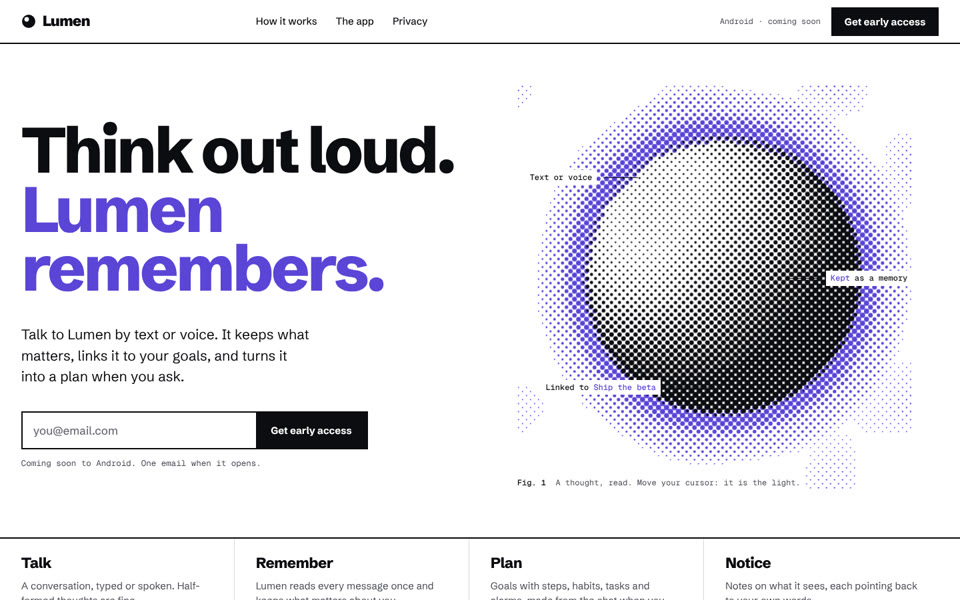
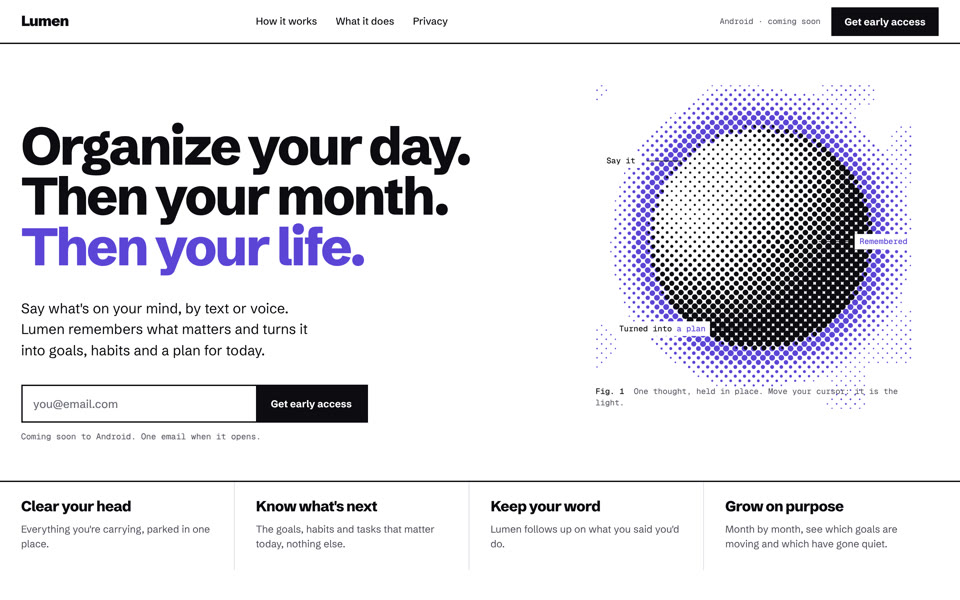
Concept A: marketing copy, abstract feature plates, one-colour goal rings
Headline and sections rewritten around organizing your day, month and life
and parking open loops. The recreated app screens are replaced by animated
halftone plates in phone frames; Today's rings follow the app (one colour on
a faint track). Logo mark removed until a brand icon exists.

Claude-Session: https://claude.ai/code/session_016rhTXZgh22ZUgroZqoWp4m

diff --git a/concepts/a-specimen.html b/concepts/a-specimen.html
@@ -8,7 +8,6 @@
 <link rel="preconnect" href="https://fonts.googleapis.com">
 <link rel="preconnect" href="https://fonts.gstatic.com" crossorigin>
 <link href="https://fonts.googleapis.com/css2?family=Schibsted+Grotesk:wght@400;500;700;800;900&family=Geist+Mono:wght@400;500&family=Inter:wght@400;500;600;700&display=swap" rel="stylesheet">
-<link rel="stylesheet" href="shared/phones.css">
 <style>
 :root {
   --paper: #ffffff;
@@ -69,17 +68,18 @@ html { scrollbar-color: var(--ink) var(--paper); }
 
 /* Hero */
 .hero { padding-block: clamp(40px, 6vw, 96px) 0; }
-.hero__text { grid-column: 1 / 7; align-self: start; padding-top: clamp(0px, 2vw, 32px); }
+.hero__text { grid-column: 1 / 8; align-self: start; padding-top: clamp(0px, 2vw, 32px); }
 .hero h1 {
   font-weight: 800;
-  font-size: clamp(52px, 7.4vw, 6rem);
-  line-height: 0.92;
+  font-size: clamp(44px, 5.5vw, 5.4rem);
+  line-height: 0.95;
   letter-spacing: -0.045em;
   margin: 0 0 clamp(24px, 3vw, 40px);
   text-wrap: balance;
 }
-.hero h1 span { display: block; animation: rise 1.1s var(--ease) both; }
-.hero h1 span:nth-child(2) { animation-delay: 0.08s; color: var(--violet); }
+.hero h1 span { display: block; white-space: nowrap; animation: rise 1.1s var(--ease) both; }
+.hero h1 span:nth-child(2) { animation-delay: 0.08s; }
+.hero h1 span:nth-child(3) { animation-delay: 0.16s; color: var(--violet); }
 @keyframes rise { from { transform: translateY(0.35em); opacity: 0; filter: blur(6px); } }
 .lede { font-size: clamp(18px, 1.5vw, 21px); line-height: 1.5; max-width: 34ch; margin: 0 0 36px; color: var(--ink); }
 
@@ -103,7 +103,7 @@ html { scrollbar-color: var(--ink) var(--paper); }
 .signup__note[data-kind='ok'] { color: var(--violet); }
 .signup[data-state='error'] .signup__row { border-color: #b4232a; }
 
-.hero__fig { grid-column: 7 / 13; position: relative; aspect-ratio: 1 / 1.02; margin-top: -24px; }
+.hero__fig { grid-column: 8 / 13; position: relative; aspect-ratio: 1 / 1.02; margin-top: -24px; }
 .hero__fig canvas { position: absolute; inset: 0; width: 100%; height: 100%; display: block; }
 .anno { position: absolute; font: 500 12px/1.35 var(--mono); color: var(--ink); display: flex; align-items: center; gap: 10px; white-space: nowrap; pointer-events: none; }
 .anno span { background: var(--paper); padding: 3px 7px; }
@@ -147,34 +147,44 @@ html { scrollbar-color: var(--ink) var(--paper); }
 .step p { margin: 0; font-size: 18px; max-width: 32ch; color: var(--ink-2); transition: color 0.4s var(--ease); }
 .step.on p { color: var(--ink); }
 
-/* Screens */
+/* Feature plates: a phone-shaped window onto one animated idea, cut by the rule */
 .screens { border-top: 2px solid var(--rule); padding-top: 28px; }
 .screens .h2 { grid-column: 1 / 10; }
 .screens__intro { grid-column: 10 / 13; align-self: end; margin: 0; color: var(--ink-2); font-size: 15px; }
 .shots { margin-top: clamp(40px, 5vw, 72px); align-items: end; }
 .shot { grid-column: span 3; }
-.shot .phone-crop { --crop-h: 33em; justify-content: center; border-bottom: 2px solid var(--rule); position: relative; }
-.shot .phone { --s: 0.98; }
-.shot:nth-child(1) .phone-crop { --crop-h: 40em; }
-.shot:nth-child(2) .phone-crop { --crop-h: 34em; }
-.shot:nth-child(3) .phone-crop { --crop-h: 44em; }
-.shot:nth-child(4) .phone-crop { --crop-h: 30em; }
-.shot .phone-crop::before {
+.cut { position: relative; border-bottom: 2px solid var(--rule); display: flex; justify-content: center; }
+.cut::before {
   content: '';
   position: absolute;
-  inset: 22% -8% 0;
+  inset: 30% -6% 0;
   background-image: radial-gradient(var(--violet) 1.1px, transparent 1.3px);
   background-size: 7px 7px;
   -webkit-mask-image: linear-gradient(to top, #000 0%, transparent 85%);
   mask-image: linear-gradient(to top, #000 0%, transparent 85%);
-  opacity: 0.55;
+  opacity: 0.5;
 }
-.shot .phone { transition: transform 1.2s var(--ease); }
-.js .shot:not(.in) .phone { transform: translateY(14%); }
-.shot > h3 { font-size: 22px; font-weight: 800; letter-spacing: -0.03em; margin: 18px 0 6px; }
-.shot > h3 small { font: 500 12px/1 var(--mono); color: var(--violet); letter-spacing: 0; display: block; margin-bottom: 10px; }
+.dev {
+  position: relative;
+  width: min(100%, 290px);
+  height: var(--h, 380px);
+  background: #121316;
+  border: 8px solid #0a0a0c;
+  border-bottom: 0;
+  border-radius: 42px 42px 0 0;
+  overflow: hidden;
+  transition: transform 1.2s var(--ease);
+}
+.shot:nth-child(1) .dev { --h: 400px; }
+.shot:nth-child(2) .dev { --h: 340px; }
+.shot:nth-child(3) .dev { --h: 440px; }
+.shot:nth-child(4) .dev { --h: 310px; }
+.js .shot:not(.in) .dev { transform: translateY(14%); }
+.dev canvas { position: absolute; left: 0; right: 0; top: 52px; bottom: 0; width: 100%; height: calc(100% - 52px); }
+.dev .bar { position: absolute; top: 18px; left: 22px; right: 22px; display: flex; justify-content: space-between; align-items: center; font: 500 11px/1 var(--mono); color: #a0a1aa; letter-spacing: 0.02em; }
+.dev .bar i { width: 44px; height: 6px; border-radius: 3px; background: #2c2d33; }
+.shot > h3 { font-size: 24px; font-weight: 800; letter-spacing: -0.035em; line-height: 1.05; margin: 20px 0 8px; }
 .shot > p { margin: 0; color: var(--ink-2); font-size: 15px; max-width: 30ch; }
-.sample { font: 400 12px/1.4 var(--mono); color: var(--ink-2); margin-top: 28px; }
 
 /* Privacy */
 .priv { border-top: 2px solid var(--rule); margin-top: clamp(80px, 10vw, 140px); padding-top: 28px; }
@@ -224,7 +234,7 @@ footer a:hover { color: #b9adff; }
   .screens__intro { grid-column: 1 / -1; margin-top: 16px; }
   .shots { display: flex; overflow-x: auto; scroll-snap-type: x mandatory; gap: var(--g); margin-left: calc(var(--g) * -1); margin-right: calc(var(--g) * -1); padding: 0 var(--g) 8px; scrollbar-width: none; }
   .shot { flex: 0 0 78%; scroll-snap-align: center; }
-  .shot .phone { --s: 0.9; }
+  .dev { --h: 360px !important; }
   .priv ul, .priv__links { grid-column: 1 / -1; margin-top: 24px; }
   .close h2, .close .signup { grid-column: 1 / -1; }
   .close canvas { width: 100%; opacity: 0.45; }
@@ -232,6 +242,8 @@ footer a:hover { color: #b9adff; }
   footer nav { margin-top: 10px; }
 }
 @media (max-width: 520px) {
+  .hero h1 { font-size: clamp(36px, 10.4vw, 52px); }
+  .hero h1 span { white-space: normal; }
   .facts .grid > div { grid-column: 1 / -1; }
   .signup .btn { padding: 0 14px; font-size: 14px; }
 }
@@ -243,10 +255,9 @@ footer a:hover { color: #b9adff; }
 <header class="mast">
   <div class="wrap grid">
     <a class="logo" href="#top" aria-label="Lumen home">
-      <svg viewBox="0 0 22 22" aria-hidden="true"><circle cx="11" cy="11" r="10" fill="#0c0c10"/><circle cx="8" cy="8" r="3.4" fill="#fff"/></svg>
-      Lumen
+Lumen
     </a>
-    <nav aria-label="Sections"><a href="#how">How it works</a><a href="#screens">The app</a><a href="#privacy">Privacy</a></nav>
+    <nav aria-label="Sections"><a href="#how">How it works</a><a href="#screens">What it does</a><a href="#privacy">Privacy</a></nav>
     <div class="mast__cta"><span>Android · coming soon</span><a class="btn" href="#join">Get early access</a></div>
   </div>
 </header>
@@ -255,8 +266,8 @@ footer a:hover { color: #b9adff; }
   <section class="hero wrap">
     <div class="grid">
       <div class="hero__text">
-        <h1><span>Think out loud.</span><span>Lumen remembers.</span></h1>
-        <p class="lede">Talk to Lumen by text or voice. It keeps what matters, links it to your goals, and turns it into a plan when you ask.</p>
+        <h1><span>Organize your day.</span><span>Then your month.</span><span>Then your life.</span></h1>
+        <p class="lede">Say what's on your mind, by text or voice. Lumen remembers what matters and turns it into goals, habits and a plan for today.</p>
         <form class="signup" data-endpoint="" novalidate>
           <label class="signup__row">
             <span class="visually-hidden" style="position:absolute;clip:rect(0 0 0 0);width:1px;height:1px;overflow:hidden">Email address</span>
@@ -268,66 +279,66 @@ footer a:hover { color: #b9adff; }
       </div>
       <figure class="hero__fig" id="heroFig" aria-hidden="true">
         <canvas id="heroCanvas"></canvas>
-        <div class="anno anno--l" style="left:2%;top:21%;--len:52px"><span>Text or voice</span></div>
-        <div class="anno" style="right:0;top:46%;--len:44px;--o:-1"><span><b>Kept</b> as a memory</span></div>
-        <div class="anno anno--l" style="left:6%;top:73%;--len:72px"><span>Linked to <b>Ship the beta</b></span></div>
-        <figcaption class="figcap"><b>Fig. 1</b>&nbsp;&nbsp;A thought, read. Move your cursor: it is the light.</figcaption>
+        <div class="anno anno--l" style="left:2%;top:21%;--len:52px"><span>Say it</span></div>
+        <div class="anno" style="right:0;top:46%;--len:44px;--o:-1"><span><b>Remembered</b></span></div>
+        <div class="anno anno--l" style="left:6%;top:73%;--len:72px"><span>Turned into <b>a plan</b></span></div>
+        <figcaption class="figcap"><b>Fig. 1</b>&nbsp;&nbsp;One thought, held in place. Move your cursor: it is the light.</figcaption>
       </figure>
     </div>
   </section>
 
   <section class="facts wrap" aria-label="What Lumen does">
     <div class="grid">
-      <div><h3>Talk</h3><p>A conversation, typed or spoken. Half-formed thoughts are fine.</p></div>
-      <div><h3>Remember</h3><p>Lumen reads every message once and keeps what matters about you.</p></div>
-      <div><h3>Plan</h3><p>Goals with steps, habits, tasks and alarms, made from the chat when you ask.</p></div>
-      <div><h3>Notice</h3><p>Notes on what it sees, each pointing back to your own words.</p></div>
+      <div><h3>Clear your head</h3><p>Everything you're carrying, parked in one place.</p></div>
+      <div><h3>Know what's next</h3><p>The goals, habits and tasks that matter today, nothing else.</p></div>
+      <div><h3>Keep your word</h3><p>Lumen follows up on what you said you'd do.</p></div>
+      <div><h3>Grow on purpose</h3><p>Month by month, see which goals are moving and which have gone quiet.</p></div>
     </div>
   </section>
 
   <section class="how wrap" id="how">
-    <div class="how__head grid"><h2>From a passing thought to a plan you keep.</h2></div>
+    <div class="how__head grid"><h2>Get it out of your head. Get it done.</h2></div>
     <div class="how__body grid">
       <div class="how__stage">
         <div class="frame">
           <canvas id="howCanvas" aria-hidden="true"></canvas>
           <div class="tag"><b>Fig. 2</b>&nbsp;&nbsp;<span id="howTag">A thought</span></div>
-          <div class="meter" aria-hidden="true"><span class="on">Say it</span><span>It's kept</span><span>It's a plan</span></div>
+          <div class="meter" aria-hidden="true"><span class="on">Say it</span><span>Park it</span><span>Do it</span></div>
         </div>
       </div>
       <div class="how__steps">
-        <div class="step on" data-tag="A thought"><h3>Say it.</h3><p>Type or talk, mid-walk or late at night. Lumen replies, and reads the message once to understand it.</p></div>
-        <div class="step" data-tag="A memory"><h3>It's kept.</h3><p>What matters becomes a memory: how you work, what's going on, which goal it touches. Next week, Lumen still knows.</p></div>
-        <div class="step" data-tag="A plan"><h3>It becomes a plan.</h3><p>Say "make it a goal" and Lumen drafts the steps. Habits, tasks and alarms on your phone's clock work the same way.</p></div>
+        <div class="step on" data-tag="A loose thought"><h3>Say it.</h3><p>Type or talk, mid-walk or at midnight. Half-formed is fine. Lumen replies and works out what you meant.</p></div>
+        <div class="step" data-tag="Parked"><h3>Park it.</h3><p>Every open loop lands in Lumen and stays there: the call you owe, the idea you can't drop. It remembers, so you don't have to.</p></div>
+        <div class="step" data-tag="A plan"><h3>Do it.</h3><p>Say "make it a goal" and the steps appear. Habits, tasks and alarms on your phone's clock work the same way.</p></div>
       </div>
     </div>
   </section>
 
   <section class="screens wrap" id="screens">
     <div class="grid">
-      <h2 class="h2">One conversation, four places it shows up.</h2>
-      <p class="screens__intro">The app on Android. Screens show sample content.</p>
+      <h2 class="h2">Everything you meant to do, finally in one place.</h2>
+      <p class="screens__intro">Four things Lumen does for you, every day.</p>
     </div>
     <div class="grid shots">
       <article class="shot">
-        <div class="phone-crop"><div class="phone" data-screen="chat"></div></div>
-        <h3><small>Chats</small>Talk it through</h3>
-        <p>Every reply knows what you said before. A plan arrives as a card you can add.</p>
+        <div class="cut"><div class="dev"><div class="bar"><span>Voice → words</span><i></i></div><canvas data-plate="talk" aria-hidden="true"></canvas></div></div>
+        <h3>Talk it out.</h3>
+        <p>Type or speak. Ramble if you need to. Lumen listens, replies, and keeps what matters.</p>
       </article>
       <article class="shot">
-        <div class="phone-crop"><div class="phone" data-screen="today"></div></div>
-        <h3><small>Today</small>Your day, from your words</h3>
-        <p>Your top three goals as rings, with the habits and tasks that move them.</p>
+        <div class="cut"><div class="dev"><div class="bar"><span>Open loops</span><i></i></div><canvas data-plate="loops" aria-hidden="true"></canvas></div></div>
+        <h3>Park your open loops.</h3>
+        <p>The call you owe, the decision you keep dodging. Drop it in Lumen and it follows up.</p>
       </article>
       <article class="shot">
-        <div class="phone-crop"><div class="phone" data-screen="insights"></div></div>
-        <h3><small>Insights</small>Honest notes</h3>
-        <p>What Lumen noticed, straight feedback, and one thing to try this week.</p>
+        <div class="cut"><div class="dev"><div class="bar"><span>Today</span><i></i></div><canvas data-plate="today" aria-hidden="true"></canvas></div></div>
+        <h3>Organize your day.</h3>
+        <p>Your top goals as rings, with the habits and tasks that move them. One look, and you know.</p>
       </article>
       <article class="shot">
-        <div class="phone-crop"><div class="phone" data-screen="plan"></div></div>
-        <h3><small>Plan</small>Everything in one place</h3>
-        <p>Goals, repeating habits, follow-ups and alarms. Change any of it by asking.</p>
+        <div class="cut"><div class="dev"><div class="bar"><span>Insights</span><i></i></div><canvas data-plate="patterns" aria-hidden="true"></canvas></div></div>
+        <h3>See your patterns.</h3>
+        <p>Honest notes on what you keep doing, each traced back to your own words.</p>
       </article>
     </div>
   </section>
@@ -348,7 +359,7 @@ footer a:hover { color: #b9adff; }
   <section class="close" id="join">
     <canvas id="closeCanvas" aria-hidden="true"></canvas>
     <div class="wrap grid">
-      <h2>Be first when it opens.</h2>
+      <h2>Clear your head. Start with today.</h2>
       <form class="signup" data-endpoint="" novalidate>
         <label class="signup__row">
           <span style="position:absolute;clip:rect(0 0 0 0);width:1px;height:1px;overflow:hidden">Email address</span>
@@ -369,7 +380,6 @@ footer a:hover { color: #b9adff; }
 </footer>
 
 <script src="shared/halftone.js"></script>
-<script src="shared/phones.js"></script>
 <script src="shared/signup.js"></script>
 <script>
 (function () {
@@ -452,9 +462,86 @@ footer a:hover { color: #b9adff; }
     },
   });
 
-  // Phones rise to the rule as they arrive.
+  // Feature plates. Each loops a few seconds of one idea, drawn in the app's own dark.
+  const ease = (x) => 1 - Math.pow(1 - clamp(x), 3);
+  const loopT = (t, len) => (t % len) / len;
+  const P = {
+    // A voice wave that settles into lines of words.
+    talk: (u, v, t, s) => {
+      const ph = loopT(t, 7);
+      const m = smooth(0.34, 0.52, ph) * (1 - smooth(0.9, 0.99, ph));
+      const amp = 0.03 + 0.15 * Math.abs(Math.sin(u * 15 + t * 3.2) * Math.sin(u * 4.6 - t * 1.4));
+      const wave = u > 0.08 && u < 0.92 && Math.abs(v - 0.42) < amp ? 1 : 0;
+      const L = [0.82, 0.7, 0.78, 0.46];
+      let lines = 0;
+      for (let i = 0; i < 4; i++) {
+        const y = 0.26 + i * 0.1;
+        const grow = ease((ph - 0.36 - i * 0.07) / 0.18);
+        if (Math.abs(v - y) < 0.022 && u > 0.1 && u < 0.1 + L[i] * grow) lines = 0.8;
+      }
+      return wave * (1 - m) + lines * m;
+    },
+    // Scattered loops drift in and settle into a tidy list.
+    loops: (u, v, t, s) => {
+      const ph = loopT(t, 8);
+      const k = ease((ph - 0.12) / 0.4) * (1 - smooth(0.9, 1, ph));
+      let val = 0;
+      for (let i = 0; i < 5; i++) {
+        const sx = 0.2 + 0.6 * noise(i * 3.1, 0.5, t * 0.15), sy = 0.15 + 0.7 * noise(0.5, i * 2.7, t * 0.15);
+        const ki = clamp(k * 1.25 - i * 0.06);
+        const x = sx + (0.14 - sx) * ki, y = sy + (0.12 + i * 0.15 - sy) * ki;
+        const d = Math.hypot((u - x) * s.aspect, v - y);
+        if (d > 0.035 && d < 0.058) val = 1;
+        if (Math.abs(v - y) < 0.016 && u > x + 0.1 && u < x + 0.1 + (0.62 - i * 0.06) * smooth(0.75, 1, ki)) val = Math.max(val, 0.5);
+      }
+      return val;
+    },
+    // Three goal rings in one colour, as the app draws them, and the day's list below.
+    today: (u, v, t, s) => {
+      const ph = loopT(t, 7);
+      const fill = ease(ph / 0.45) * (1 - smooth(0.9, 1, ph));
+      const goals = [0.4, 0.67, 0.2];
+      for (let i = 0; i < 3; i++) {
+        const cx = 0.2 + i * 0.3, cy = 0.17;
+        const dx = (u - cx) * s.aspect, dy = v - cy, d = Math.hypot(dx, dy);
+        if (d > 0.075 && d < 0.105) {
+          const a = (Math.atan2(dx, -dy) + Math.PI * 2) % (Math.PI * 2);
+          return a < goals[i] * fill * Math.PI * 2 ? 1 : 0.14;
+        }
+      }
+      for (let i = 0; i < 4; i++) {
+        const y = 0.42 + i * 0.13;
+        const bx = (u - 0.135) * s.aspect, by = v - y;
+        if (Math.abs(bx) < 0.034 && Math.abs(by) < 0.034) {
+          const done = i < 2 && ph > 0.3 + i * 0.12 && ph < 0.92;
+          return done || Math.abs(bx) > 0.02 || Math.abs(by) > 0.02 ? 1 : 0;
+        }
+        if (Math.abs(v - y) < 0.015 && u > 0.24 && u < 0.24 + [0.5, 0.62, 0.4, 0.55][i]) return 0.38;
+      }
+      return 0;
+    },
+    // Quiet noise, and one pattern that keeps lighting up.
+    dim: (u, v, t, s) => clamp((noise(u * 9 * s.aspect, v * 9, t * 0.2) - 0.45) * 1.6) * 0.5,
+    pattern: (u, v, t, s) => {
+      const pts = [[0.25, 0.2], [0.42, 0.36], [0.58, 0.5], [0.72, 0.68]];
+      let val = 0;
+      pts.forEach(([x, y], i) => {
+        const on = 0.5 + 0.5 * Math.sin(t * 2 - i * 0.9);
+        const d = Math.hypot((u - x) * s.aspect, v - y);
+        val = Math.max(val, smooth(0.11, 0.0, d) * (0.45 + 0.55 * on));
+      });
+      return val;
+    },
+  };
+  document.querySelectorAll('canvas[data-plate]').forEach((c) => {
+    const kind = c.dataset.plate;
+    const plates = kind === 'patterns'
+      ? [{ color: '#4a4b55', field: P.dim }, { color: '#a896ff', field: P.pattern }]
+      : [{ color: '#f2f2f4', field: P[kind] }];
+    H.mount(c, { spacing: kind === 'today' ? 5 : 6, angle: 0, shape: kind === 'patterns' ? 'circle' : 'square', pointer: false, fps: 30, plates });
+  });
   const io = new IntersectionObserver((es) => es.forEach((e) => { if (e.isIntersecting) { e.target.classList.add('in'); io.unobserve(e.target); } }), { threshold: 0.25 });
-  document.querySelectorAll('.shot').forEach((el, i) => { el.style.transitionDelay = i * 80 + 'ms'; el.querySelector('.phone').style.transitionDelay = i * 90 + 'ms'; io.observe(el); });
+  document.querySelectorAll('.shot').forEach((el, i) => { el.querySelector('.dev').style.transitionDelay = i * 90 + 'ms'; io.observe(el); });
 })();
 </script>
 </body>
